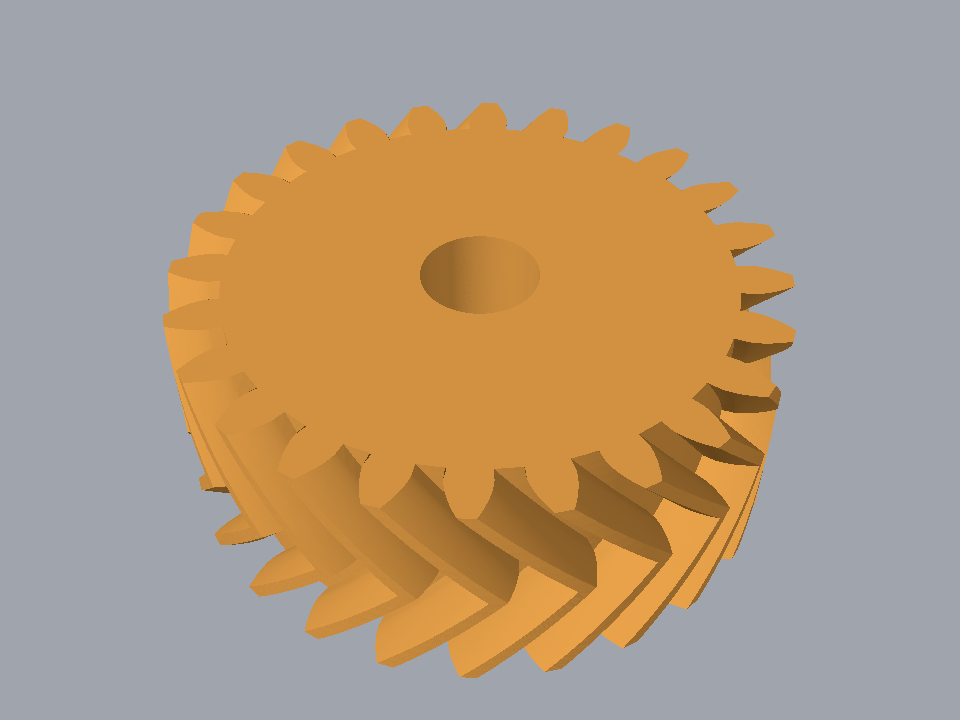
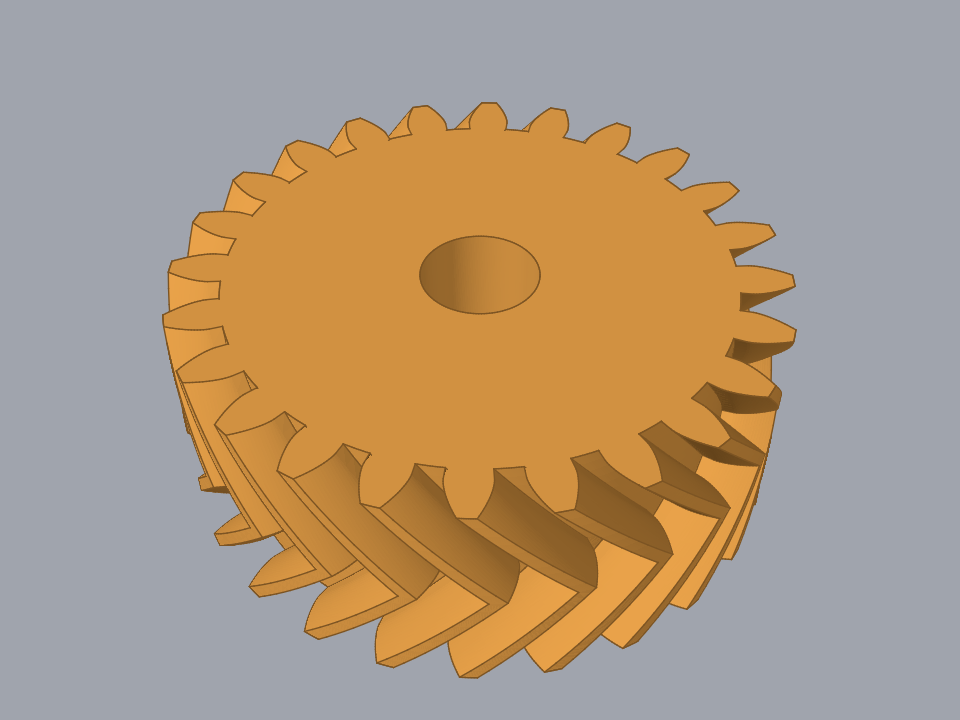
outline the gear edges and close the end caps

diff --git a/proof/cmd/genexamples/sweep.go b/proof/cmd/genexamples/sweep.go
@@ -17,6 +17,24 @@ type station struct {
 	twist float64
 }
 
+// boreSegments is how many sides the bore is drawn with. Its ring turns with
+// its station's outline, so bore point j always faces outline point 0 and
+// both the bore wall and the end cap pair up without a seam. On a twisted
+// gear that makes the bore a helicoid rather than a cylinder, by under a
+// micrometre at the sizes rendered here.
+const boreSegments = 144
+
+// borePhase offsets the bore ring by half a segment.
+//
+// Where a tooth's stub foot sits directly below its flank start, the outline
+// runs radially and the end cap has to cover that with a wedge of no width.
+// The wedge is a real triangle only while its third corner, a bore point,
+// lies off the ray — and the tooth pitch here is an exact multiple of the
+// bore's own step, so an unshifted ring puts a bore point on every one of
+// those rays. Half a step moves them clear. TestSweptMeshIsClosed is what
+// says it stayed clear.
+const borePhase = math.Pi / boreSegments
+
 // sweep meshes the ruled surface through the stations, closes it with an end
 // cap at each extreme, and returns it ready to render.
 //
@@ -25,29 +43,32 @@ type station struct {
 // only — and an untessellatable body cannot be rendered or cut. The surface
 // between two sections of a loft is ruled, so meshing it is a matter of
 // joining the sections point for point, which is what this does. Nothing
-// about the gear itself is approximated here: the outlines are the same
-// involute sections decad extrudes for the spur render.
+// about the gear itself is approximated here: the outlines are the involute
+// sections proof/involute draws.
 func sweep(dims involute.Dimensions, teeth int, boreRadius float64, stations []station) (*solidlens.Mesh, error) {
 	if len(stations) < 2 {
 		return nil, fmt.Errorf("sweep needs at least two stations, got %d", len(stations))
 	}
 	rings := make([][]involute.Pt, len(stations))
-	bores := make([][]involute.Pt, len(stations))
 	for i, st := range stations {
 		rings[i] = outline(dims, float64(teeth), st.twist)
 		if i > 0 && len(rings[i]) != len(rings[0]) {
 			return nil, fmt.Errorf("station %d has %d outline points, station 0 has %d; the ruled surface needs them to correspond",
 				i, len(rings[i]), len(rings[0]))
 		}
-		bores[i] = boreRing(rings[i], boreRadius)
 	}
-
 	n := len(rings[0])
 	bored := boreRadius > 0
-	perStation := n
+	bores := make([][]involute.Pt, len(stations))
+	boreCount := 0
 	if bored {
-		perStation = 2 * n
+		boreCount = boreSegments
+		for i := range stations {
+			bores[i] = boreRing(boreRadius, bearing(rings[i][0])-borePhase)
+		}
 	}
+	perStation := n + boreCount
+
 	vertices := make([]solidlens.Vec, 0, len(stations)*perStation+2)
 	for i, st := range stations {
 		for _, p := range rings[i] {
@@ -58,7 +79,7 @@ func sweep(dims involute.Dimensions, teeth int, boreRadius float64, stations []s
 		}
 	}
 	outer := func(s, i int) int { return s*perStation + i%n }
-	inner := func(s, i int) int { return s*perStation + n + i%n }
+	inner := func(s, j int) int { return s*perStation + n + j%boreCount }
 
 	var triangles [][3]int
 	// Walls. The outline runs clockwise seen from +Z, so this winding puts
@@ -69,20 +90,19 @@ func sweep(dims involute.Dimensions, teeth int, boreRadius float64, stations []s
 			lo, hi := outer(s, i), outer(s+1, i)
 			loNext, hiNext := outer(s, i+1), outer(s+1, i+1)
 			triangles = append(triangles, [3]int{lo, hi, loNext}, [3]int{loNext, hi, hiNext})
-			if !bored {
-				continue
-			}
-			blo, bhi := inner(s, i), inner(s+1, i)
-			bloNext, bhiNext := inner(s, i+1), inner(s+1, i+1)
-			triangles = append(triangles, [3]int{blo, bloNext, bhi}, [3]int{bloNext, bhiNext, bhi})
+		}
+		if !bored {
+			continue
+		}
+		for j := range boreCount {
+			lo, hi := inner(s, j), inner(s+1, j)
+			loNext, hiNext := inner(s, j+1), inner(s+1, j+1)
+			triangles = append(triangles, [3]int{lo, loNext, hi}, [3]int{loNext, hiNext, hi})
 		}
 	}
 
 	last := len(stations) - 1
-	if bored {
-		triangles = append(triangles, capRing(outer, inner, 0, n, false)...)
-		triangles = append(triangles, capRing(outer, inner, last, n, true)...)
-	} else {
+	if !bored {
 		bottomHub := len(vertices)
 		vertices = append(vertices, solidlens.Vec{Z: stations[0].z})
 		topHub := len(vertices)
@@ -92,38 +112,124 @@ func sweep(dims involute.Dimensions, teeth int, boreRadius float64, stations []s
 				[3]int{bottomHub, outer(0, i), outer(0, i+1)},
 				[3]int{topHub, outer(last, i+1), outer(last, i)})
 		}
+		return solidlens.NewMesh(vertices, triangles)
+	}
+	for _, cap := range []struct {
+		s  int
+		up bool
+	}{{0, false}, {last, true}} {
+		face, err := capFace(rings[cap.s], bores[cap.s],
+			func(i int) int { return outer(cap.s, i) },
+			func(j int) int { return inner(cap.s, j) }, cap.up)
+		if err != nil {
+			return nil, err
+		}
+		triangles = append(triangles, face...)
 	}
 	return solidlens.NewMesh(vertices, triangles)
 }
 
-// capRing triangulates the flat face between the outline and the bore at one
-// station. up selects the face's normal: false gives the -Z end cap, true the
-// +Z one.
-func capRing(outer, inner func(s, i int) int, s, n int, up bool) [][3]int {
-	out := make([][3]int, 0, 2*n)
-	for i := range n {
-		o, oNext := outer(s, i), outer(s, i+1)
-		b, bNext := inner(s, i), inner(s, i+1)
-		if up {
-			out = append(out, [3]int{o, bNext, oNext}, [3]int{o, b, bNext})
+// capFace triangulates the flat face between one station's outline and the
+// bore.
+//
+// The two loops do not correspond point for point — the bore has its own even
+// spacing — so the face is closed by merging them in bearing order, taking one
+// triangle per point of either loop.
+//
+// Each triangle is then wound by its own signed area rather than by the order
+// the merge produced it in. A tooth's stub runs radially, outward on one flank
+// and inward on the other, and a merge step across the inward one comes out
+// turning the opposite way. Left as it is, that triangle faces into the gear,
+// and the renderer draws a line along all three of its edges because each
+// neighbour disagrees with it by 180 degrees.
+func capFace(loop, bore []involute.Pt, outer, inner func(int) int, up bool) ([][3]int, error) {
+	n, m := len(loop), len(bore)
+	if n == 0 || m == 0 {
+		return nil, fmt.Errorf("cap face needs both loops, got %d outline and %d bore points", n, m)
+	}
+	outerBearings := descending(loop)
+	boreBearings := descending(bore)
+	triangles := make([][3]int, 0, n+m)
+	// The bottom cap faces -Z, which a clockwise turn through the three
+	// corners gives; the top cap faces +Z and wants the other turn.
+	want := -1.0
+	if up {
+		want = 1
+	}
+	emit := func(ai, bi, ci int, a, b, c involute.Pt) {
+		if math.Signbit(turn(a, b, c)) != math.Signbit(want) {
+			bi, ci = ci, bi
+		}
+		triangles = append(triangles, [3]int{ai, bi, ci})
+	}
+	for i, j := 0, 0; i < n || j < m; {
+		takeOuter := j >= m
+		if i < n && j < m {
+			takeOuter = nextBearing(outerBearings, i) > nextBearing(boreBearings, j)
+		}
+		if takeOuter {
+			emit(outer(i), outer(i+1), inner(j), loop[i%n], loop[(i+1)%n], bore[j%m])
+			i++
 			continue
 		}
-		out = append(out, [3]int{o, oNext, bNext}, [3]int{o, bNext, b})
+		emit(outer(i), inner(j+1), inner(j), loop[i%n], bore[(j+1)%m], bore[j%m])
+		j++
+	}
+	return triangles, nil
+}
+
+// turn is twice the signed area of the triangle, positive for a
+// counter-clockwise turn through a, b, c.
+func turn(a, b, c involute.Pt) float64 {
+	return (b.X-a.X)*(c.Y-a.Y) - (b.Y-a.Y)*(c.X-a.X)
+}
+
+// descending unwraps a clockwise loop's bearings so they fall monotonically
+// from the first point instead of jumping at ±pi.
+func descending(loop []involute.Pt) []float64 {
+	out := make([]float64, len(loop))
+	out[0] = bearing(loop[0])
+	for i := 1; i < len(loop); i++ {
+		// The step is taken as the shortest turn from the previous bearing,
+		// then held at or below zero: the loop only ever goes clockwise, so a
+		// positive step is rounding noise, and letting one through would drag
+		// the whole tail of the loop back by a full turn.
+		step := wrapPi(bearing(loop[i]) - out[i-1])
+		if step > 0 {
+			step = 0
+		}
+		out[i] = out[i-1] + step
 	}
 	return out
 }
 
-// boreRing places one bore-circle point per outline point, at the same
-// bearing, so the end cap between them is a plain strip of quads. The
-// outline is star-shaped about the gear centre and the bore is well inside
-// the root circle, so the strip never folds over itself.
-func boreRing(loop []involute.Pt, radius float64) []involute.Pt {
-	if radius <= 0 {
-		return nil
+// wrapPi folds an angle into (-pi, pi].
+func wrapPi(a float64) float64 {
+	a = math.Mod(a, 2*math.Pi)
+	if a > math.Pi {
+		a -= 2 * math.Pi
 	}
-	ring := make([]involute.Pt, len(loop))
-	for i, p := range loop {
-		a := math.Atan2(p.Y, p.X)
+	if a <= -math.Pi {
+		a += 2 * math.Pi
+	}
+	return a
+}
+
+// nextBearing is the bearing of the point after k, continuing past the end of
+// the loop into the next turn.
+func nextBearing(bearings []float64, k int) float64 {
+	if k+1 < len(bearings) {
+		return bearings[k+1]
+	}
+	return bearings[0] - 2*math.Pi
+}
+
+// boreRing is the bore circle, walked clockwise from start so it runs the
+// same way round as the outline.
+func boreRing(radius, start float64) []involute.Pt {
+	ring := make([]involute.Pt, boreSegments)
+	for i := range ring {
+		a := start - 2*math.Pi*float64(i)/boreSegments
 		ring[i] = involute.Pt{X: radius * math.Cos(a), Y: radius * math.Sin(a)}
 	}
 	return ring

diff --git a/proof/cmd/genexamples/sweep_test.go b/proof/cmd/genexamples/sweep_test.go
@@ -1,0 +1,92 @@
+package main
+
+import (
+	"math"
+	"testing"
+
+	"github.com/lestrrat-3d/fusion360-gear-generator/proof/involute"
+	"github.com/lestrrat-3d/solidlens"
+	"github.com/stretchr/testify/require"
+)
+
+// TestSweptMeshIsClosed requires every edge of a swept gear to be shared by
+// exactly two triangles, and no triangle to be collapsed.
+//
+// The renderer draws a line along any edge that is not shared by two faces,
+// so a hole in the mesh does not show up as a hole. It shows up as a stray
+// line across a flat face, which is easy to mistake for a styling choice.
+func TestSweptMeshIsClosed(t *testing.T) {
+	for _, ex := range examples() {
+		t.Run(ex.gear.name, func(t *testing.T) {
+			dims := involute.Derive(ex.gear.module, float64(ex.gear.teeth), ex.gear.pressureAngle)
+			mesh, err := sweep(dims, ex.gear.teeth, ex.gear.boreDiameter/2, ex.gear.stations())
+			require.NoError(t, err)
+
+			vertices := mesh.Vertices()
+			collapsed := 0
+			counts := map[[2][3]int64]int{}
+			for _, tri := range mesh.Triangles() {
+				corners := [3]solidlens.Vec{vertices[tri[0]], vertices[tri[1]], vertices[tri[2]]}
+				if _, ok := corners[1].Sub(corners[0]).Cross(corners[2].Sub(corners[0])).Normalize(); !ok {
+					collapsed++
+					continue
+				}
+				for i, a := range corners {
+					counts[edgeKey(a, corners[(i+1)%3])]++
+				}
+			}
+			require.Zero(t, collapsed, "collapsed triangles drop out of the mesh and open a hole around themselves")
+
+			unshared := 0
+			for _, n := range counts {
+				if n != 2 {
+					unshared++
+				}
+			}
+			require.Zero(t, unshared, "edges not shared by exactly two triangles")
+
+			require.Zero(t, inwardCaps(mesh, ex.gear.thickness),
+				"end-cap triangles facing into the gear; the renderer lines every edge where two faces disagree")
+		})
+	}
+}
+
+// edgeKey identifies an edge by its endpoints, quantized and ordered the way
+// the renderer's own edge collector does it.
+func edgeKey(a, b solidlens.Vec) [2][3]int64 {
+	lo, hi := quantize(a), quantize(b)
+	if hi[0] < lo[0] ||
+		(hi[0] == lo[0] && hi[1] < lo[1]) ||
+		(hi[0] == lo[0] && hi[1] == lo[1] && hi[2] < lo[2]) {
+		lo, hi = hi, lo
+	}
+	return [2][3]int64{lo, hi}
+}
+
+func quantize(v solidlens.Vec) [3]int64 {
+	const scale = 1e5
+	return [3]int64{
+		int64(math.Round(v.X * scale)),
+		int64(math.Round(v.Y * scale)),
+		int64(math.Round(v.Z * scale)),
+	}
+}
+
+// inwardCaps counts the flat end-cap triangles whose normal points into the
+// gear instead of out of it.
+func inwardCaps(mesh *solidlens.Mesh, thickness float64) int {
+	vertices := mesh.Vertices()
+	wrong := 0
+	for _, tri := range mesh.Triangles() {
+		corners := [3]solidlens.Vec{vertices[tri[0]], vertices[tri[1]], vertices[tri[2]]}
+		normal, ok := corners[1].Sub(corners[0]).Cross(corners[2].Sub(corners[0])).Normalize()
+		if !ok || math.Abs(math.Abs(normal.Z)-1) > 1e-9 {
+			continue
+		}
+		atTop := math.Abs(corners[0].Z-thickness) < 1e-9
+		if atTop != (normal.Z > 0) {
+			wrong++
+		}
+	}
+	return wrong
+}

diff --git a/proof/cmd/genexamples/main.go b/proof/cmd/genexamples/main.go
@@ -124,11 +124,29 @@ func (ex example) scene(ctx context.Context) (solidlens.Scene, error) {
 		return solidlens.Scene{}, err
 	}
 	return solidlens.Scene{
-		Camera:            ex.camera(),
-		Models:            []solidlens.Model{{Mesh: mesh, Material: solidlens.Matte(ex.color)}},
+		Camera: ex.camera(),
+		Models: []solidlens.Model{{
+			Mesh:     mesh,
+			Material: solidlens.Matte(ex.color),
+			Edges:    ex.outline(),
+		}},
 		DirectionalLights: lights(),
 		Background:        solidlens.RGB(0.35, 0.37, 0.42),
 	}, nil
+}
+
+// outline draws the gear's own edges in a darkened version of its colour. It
+// is what separates one tooth from the next where two flanks face the camera
+// at nearly the same angle and flat shading gives them nearly the same value.
+// The crease angle is left at its default, which picks up the tooth corners
+// and skips the seams between the bands the sweep is cut into.
+func (ex example) outline() solidlens.Edges {
+	const darken = 0.28
+	return solidlens.Edges{
+		Enabled: true,
+		Color:   solidlens.RGB(ex.color.R*darken, ex.color.G*darken, ex.color.B*darken),
+		Width:   1.4,
+	}
 }
 
 // camera looks down on the gear from the front left at a fixed elevation,
